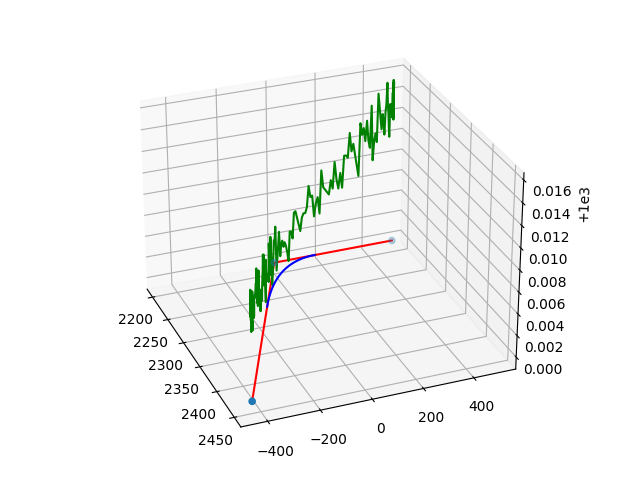
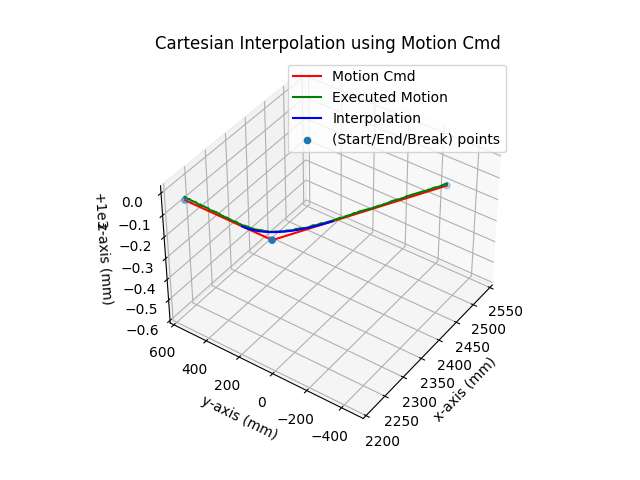
curve test

Changed region(s): [[0.1562, 0.0625, 0.9375, 0.9688], [0.3125, 0.9062, 0.375, 0.9375]]

diff --git a/simulation/roboguide/scripts/heuristic_curve_fit_m900ia.py b/simulation/roboguide/scripts/heuristic_curve_fit_m900ia.py
@@ -1,0 +1,248 @@
+from math import radians,degrees
+import numpy as np
+from pandas import read_csv,DataFrame
+from math import sin,cos
+from copy import deepcopy
+
+from general_robotics_toolbox import *
+import sys
+from matplotlib import pyplot as plt
+
+from heuristic_curve_fit_func import *
+
+sys.path.append('../../../toolbox')
+from robots_def import *
+from lambda_calc import *
+from error_check import *
+sys.path.append('../../../circular_fit')
+from toolbox_circular_fit import *
+sys.path.append('../fanuc_toolbox')
+from fanuc_client import *
+
+def norm_vec(v):
+    return v/np.linalg.norm(v)
+
+# generate curve with linear orientation
+# robot=abb6640(d=50)
+robot=m900ia(d=50)
+###generate a continuous arc, with linear orientation
+start_p = np.array([2200,500, 1000])
+end_p = np.array([2200, -500, 1000])
+mid_p=(start_p+end_p)/2
+
+data_dir = '../data/heuristic_curve_fit/'
+
+client = FANUCClient()
+utool_num = 2
+
+ang=30
+
+##### create curve #####
+###start rotation by 'ang' deg
+k=np.cross(end_p+np.array([0.1,0,0])-mid_p,start_p-mid_p)
+k=k/np.linalg.norm(k)
+theta=np.radians(ang)
+
+R=rot(k,theta)
+new_vec=R@(end_p-mid_p)
+new_end_p=mid_p+new_vec
+
+###calculate lambda
+lam1_f=np.linalg.norm(mid_p-start_p)
+lam1=np.linspace(0,lam1_f,num=25001)
+lam_f=lam1_f+np.linalg.norm(mid_p-new_end_p)
+lam2=np.linspace(lam1_f,lam_f,num=25001)
+
+lam=np.hstack((lam1,lam2[1:]))
+
+try:
+    with open(data_dir+'Curve_js.npy','rb') as f:
+        curve_js = np.load(f)
+    with open(data_dir+'Curve_in_base_frame.npy','rb') as f:
+        curve = np.load(f)
+    with open(data_dir+'Curve_R_in_base_frame.npy','rb') as f:
+        R_all = np.load(f)
+        curve_normal=R_all[:,:,-1]
+except OSError as e:
+
+    #generate linear segment
+    a1,b1,c1=lineFromPoints([lam1[0],start_p[0]],[lam1[-1],mid_p[0]])
+    a2,b2,c2=lineFromPoints([lam1[0],start_p[1]],[lam1[-1],mid_p[1]])
+    a3,b3,c3=lineFromPoints([lam1[0],start_p[2]],[lam1[-1],mid_p[2]])
+    line1=np.vstack(((-a1*lam1-c1)/b1,(-a2*lam1-c2)/b2,(-a3*lam1-c3)/b3)).T
+
+    a1,b1,c1=lineFromPoints([lam2[0],mid_p[0]],[lam2[-1],new_end_p[0]])
+    a2,b2,c2=lineFromPoints([lam2[0],mid_p[1]],[lam2[-1],new_end_p[1]])
+    a3,b3,c3=lineFromPoints([lam2[0],mid_p[2]],[lam2[-1],new_end_p[2]])
+    line2=np.vstack(((-a1*lam2-c1)/b1,(-a2*lam2-c2)/b2,(-a3*lam2-c3)/b3)).T
+
+    curve=np.vstack((line1,line2[1:]))
+
+    R_init=Ry(np.radians(135))
+    R_end=Ry(np.radians(90))
+    # interpolate orientation
+    R_all=[R_init]
+    k,theta=R2rot(np.dot(R_end,R_init.T))
+    curve_normal=[R_init[:,-1]]
+    # theta=np.pi/4 #force 45deg change
+    for i in range(1,len(curve)):
+        angle=theta*i/(len(curve)-1)
+        R_temp=rot(k,angle)
+        R_all.append(np.dot(R_temp,R_init))
+        curve_normal.append(R_all[-1][:,-1])
+    curve_normal=np.array(curve_normal)
+
+    q_init=robot.inv(start_p,R_init)[1]
+    #solve inv kin
+
+    curve_js=[q_init]
+    for i in range(1,len(curve)):
+        q_all=np.array(robot.inv(curve[i],R_all[-1]))
+        ###choose inv_kin closest to previous joints
+        curve_js.append(unwrapped_angle_check(curve_js[-1],q_all))
+
+    curve_js=np.array(curve_js)
+    R_all=np.array(R_all)
+    with open(data_dir+'Curve_js.npy','wb') as f:
+        np.save(f,curve_js)
+    with open(data_dir+'Curve_in_base_frame.npy','wb') as f:
+        np.save(f,curve)
+    with open(data_dir+'Curve_R_in_base_frame.npy','wb') as f:
+        np.save(f,R_all)
+
+
+zone=100
+tolerance=1
+
+this_case='do_no_thing'
+
+
+
+# bisection search robot speed
+speed_up=2000
+speed_low=0
+speed=(speed_up+speed_low)/2
+speed_found=False
+zone=100
+while True:
+    speed=int(speed)
+    # tp program
+    # move to start
+    tp_pre = TPMotionProgram()
+    j0 = jointtarget(1,1,utool_num,np.degrees(target_joints[0]),[0]*6)
+    tp_pre.moveJ(j0,50,'%',-1)
+    robt_start = joint2robtarget(target_joints[0],robot,1,1,utool_num)
+    # tp_pre.moveL(robt_start,5,'mmsec',-1)
+    tp_pre.moveL(robt_start,500,'mmsec',-1)
+    client.execute_motion_program(tp_pre)
+    
+    tp = TPMotionProgram()
+    for target in target_joints[1:-1]:
+        robt = joint2robtarget(target,robot,1,1,utool_num)
+        # robt = jointtarget(1,1,utool_num,np.degrees(target),[0]*6)
+        tp.moveL(robt,speed,'mmsec',zone)
+    robt_end = joint2robtarget(target_joints[-1],robot,1,1,utool_num)
+    tp.moveL(robt_end,speed,'mmsec',-1)
+
+    # execute 
+    res = client.execute_motion_program(tp)
+
+    # Write log csv to file
+    with open(data_dir+str(threshold)+"/curve_js_exe.csv","wb") as f:
+        f.write(res)
+    
+    # the executed in Joint space (FANUC m710ic)
+    col_names=['timestamp','J1', 'J2','J3', 'J4', 'J5', 'J6'] 
+    # data=read_csv(data_dir+'movel_3_'+str(int(h*10))+'.csv',names=col_names)
+    data=read_csv(data_dir+str(threshold)+"/curve_js_exe.csv",names=col_names)
+    q1=data['J1'].tolist()[1:]
+    q2=data['J2'].tolist()[1:]
+    q3=data['J3'].tolist()[1:]
+    q4=data['J4'].tolist()[1:]
+    q5=data['J5'].tolist()[1:]
+    q6=data['J6'].tolist()[1:]
+    curve_exe_js=np.radians(np.vstack((q1,q2,q3,q4,q5,q6)).T.astype(float))
+    timestamp=np.array(data['timestamp'].tolist()[1:]).astype(float)*1e-3 # from msec to sec
+
+    act_speed=[]
+    lam_exec=[0]
+    curve_exe=[]
+    curve_exe_R=[]
+    curve_exe_js_act=[]
+    dont_show_id=[]
+    last_cont = False
+    for i in range(len(curve_exe_js)):
+        this_q = curve_exe_js[i]
+        if i>5 and i<len(curve_exe_js)-5:
+            # if the recording is not fast enough
+            # then having to same logged joint angle
+            # do interpolation for estimation
+            if np.all(this_q==curve_exe_js[i+1]):
+                dont_show_id=np.append(dont_show_id,i).astype(int)
+                last_cont = True
+                continue
+                # this_q = (curve_exe_js[i-1]+curve_exe_js[i+1])/2
+                # this_q=np.array([])
+                # for j in range(6):
+                #     poly_q=BPoly.from_derivatives([timestamp[i-1],timestamp[i+1]],\
+                #                 [[curve_exe_js[i-1,j],(curve_exe_js[i-1,j]-curve_exe_js[i-1-1,j])/(timestamp[i-1]-timestamp[i-1-1])],\
+                #                 [curve_exe_js[i+1,j],(curve_exe_js[i+1+1,j]-curve_exe_js[i+1,j])/(timestamp[i+1+1]-timestamp[i+1])]])
+                #     this_q=np.append(this_q,poly_q(timestamp[i]))
+
+        robot_pose=robot.fwd(this_q)
+        curve_exe.append(robot_pose.p)
+        curve_exe_R.append(robot_pose.R)
+        curve_exe_js_act.append(this_q)
+        if i>0:
+            lam_exec.append(lam_exec[-1]+np.linalg.norm(curve_exe[-1]-curve_exe[-2]))
+        try:
+            if timestamp[-1]!=timestamp[-2]:
+                if last_cont:
+                    timestep=timestamp[i]-timestamp[i-2]
+                else:
+                    timestep=timestamp[i]-timestamp[i-1]
+                act_speed.append(np.linalg.norm(curve_exe[-1]-curve_exe[-2])/timestep)
+        except IndexError:
+            pass
+        last_cont = False
+
+    curve_exe=np.array(curve_exe)
+    curve_exe_R=np.array(curve_exe_R)
+    curve_exe_js_act=np.array(curve_exe_js_act)
+    # lamdot_act=calc_lamdot(curve_exe_js_act,lam_exec,robot,1)
+    error,angle_error=calc_all_error_w_normal(curve_exe,curve,curve_exe_R[:,:,-1],curve_normal)
+    
+    start_id = 10
+    end_id = -10
+
+    while True:
+        if error[start_id+1]>=error[start_id]:
+            break
+        start_id+=1
+    while True:
+        if error[end_id-1]>=error[end_id]:
+            break
+        end_id-=1
+    error=error[start_id:end_id+1]
+    angle_error=angle_error[start_id:end_id+1]
+    act_speed=act_speed[start_id-1:end_id]
+    
+    error_max = np.max(error)
+    angle_error_max = np.max(angle_error)
+
+    if speed_found:
+        break
+
+    
+    print('Speed:',speed,',Error:',error_max,',Angle Error:',degrees(angle_error_max))
+    if error_max > 1 or angle_error_max > radians(3):
+        speed_up=speed
+        speed=ceil((speed_up+speed_low)/2.)
+    else:
+        speed_low=speed
+        speed=floor((speed_up+speed_low)/2.)
+    if speed==speed_low:
+        break
+    elif speed==speed_up:
+        speed=speed_low
+        speed_found=True

diff --git a/simulation/roboguide/scripts/ana_zone.py b/simulation/roboguide/scripts/ana_zone.py
@@ -234,14 +234,42 @@ else:
     curve_blend[zone_start_i:zone_end_i]=blending_curve
 
 
-plt.plot(curve[:,1],curve[:,0], 'red')
-plt.plot(curve_exe[:,1],curve_exe[:,0], 'green')
-plt.plot(curve_blend[zone_start_i:zone_end_i,1],curve_blend[zone_start_i:zone_end_i,0], 'blue')
+# plt.figure()
+# ax = plt.axes(projection='3d')
+# ax.plot3D(curve[:,0], curve[:,1],curve[:,2], 'red',label='Motion Cmd')
+breakpoints=np.array([0,int((len(curve)+1)/2),int(len(curve)-1)])
+# ax.scatter3D(curve[breakpoints,0], curve[breakpoints,1],curve[breakpoints,2], 'blue',label='(Start/End/Break) points')
+# #plot execution curve
+# ax.plot3D(curve_exe[:,0], curve_exe[:,1],curve_exe[:,2], 'green',label='Executed Motion')
+# ax.plot3D(curve_blend[zone_start_i:zone_end_i+1,0], curve_blend[zone_start_i:zone_end_i+1,1],curve_blend[zone_start_i:zone_end_i+1,2], 'blue',label='Interpolation')
+# ax.view_init(elev=40, azim=-145)
+# ax.set_title('Cartesian Interpolation using Motion Cmd')
+# ax.set_xlabel('x-axis (mm)')
+# ax.set_ylabel('y-axis (mm)')
+# ax.set_zlabel('z-axis (mm)')
+# ax.set_xlim(2200,2550)
+# ax.set_ylim(-500,600)
+# ax.set_zlim(999.4,1000.02)
+# ax.legend()
+# plt.show()
+# plt.clf()
+
+plt.plot(curve[:,1],curve[:,0], 'red',label='Motion Cmd')
+plt.scatter(curve[breakpoints,1], curve[breakpoints,0],8,'royalblue',label='(Start/End/Break) points')
+plt.plot(curve_exe[:,1],curve_exe[:,0], 'green',label='Executed Motion')
+plt.plot(curve_blend[zone_start_i:zone_end_i,1],curve_blend[zone_start_i:zone_end_i,0], 'blue',label='Interpolation')
 # plt.plot(zone_x_fit,zone_y_fit,'blue')
 plt.axis('equal')
-plt.title('Curve (2D) '+this_case)
+plt.title('Joint Interpolation using Motion Cmd (XY plane)')
 plt.gca().invert_xaxis()
+plt.xlim(173,-151)
+plt.ylim(2175,2364)
+plt.legend()
+plt.xlabel('y-axis (mm)')
+plt.ylabel('x-axis (mm)')
 plt.show()
+
+exit()
 
 if cart_blend:
     if not use_exec_lam:
@@ -283,15 +311,7 @@ else:
             plt.show()
 
 
-plt.figure()
-ax = plt.axes(projection='3d')
-ax.plot3D(curve[:,0], curve[:,1],curve[:,2], 'red',label='original')
-breakpoints=np.array([0,int((len(curve)+1)/2),int(len(curve)-1)])
-ax.scatter3D(curve[breakpoints,0], curve[breakpoints,1],curve[breakpoints,2], 'blue')
-#plot execution curve
-ax.plot3D(curve_exe[:,0], curve_exe[:,1],curve_exe[:,2], 'green',label='execution')
-ax.plot3D(curve_blend[zone_start_i:zone_end_i,0], curve_blend[zone_start_i:zone_end_i,1],curve_blend[zone_start_i:zone_end_i,2], 'blue',label='blend')
-plt.show()
+
 
 # with open(save_dir+'error_'+this_case+'.npy','wb') as f:
 #     np.save(f,error)

diff --git a/simulation/roboguide/scripts/heuristic_curve_fit_func.py b/simulation/roboguide/scripts/heuristic_curve_fit_func.py
@@ -1,0 +1,35 @@
+from math import radians,degrees
+import numpy as np
+from pandas import read_csv,DataFrame
+from math import sin,cos
+from copy import deepcopy
+
+from general_robotics_toolbox import *
+import sys
+from matplotlib import pyplot as plt
+sys.path.append('../fanuc_toolbox')
+from fanuc_client import *
+sys.path.append('../../../toolbox')
+from robots_def import *
+
+def norm_vec(v):
+    return v/np.linalg.norm(v)
+
+def get_robtarget(pose,ref_j,robot,utool_num):
+    qall=robot.inv(pose)
+    q = unwrapped_angle_check(ref_j,qall)
+    wpr=R2wpr(pose.R)
+    robt = joint2robtarget(q,robot,1,1,utool_num)
+    for i in range(3):
+        robt.trans[i]=pose.p[i]
+        robt.rot[i]=wpr[i]
+    return robt
+
+def do_nothing(start_p,mid_p,end_p,tolerance,start_ref_j,mid_ref_j,end_ref_j,robot,utool_num):
+
+    robt_all = []
+
+    return
+
+def lcl_fit(p1,p2,R1,R2,slope1,slope2):
+    return 
